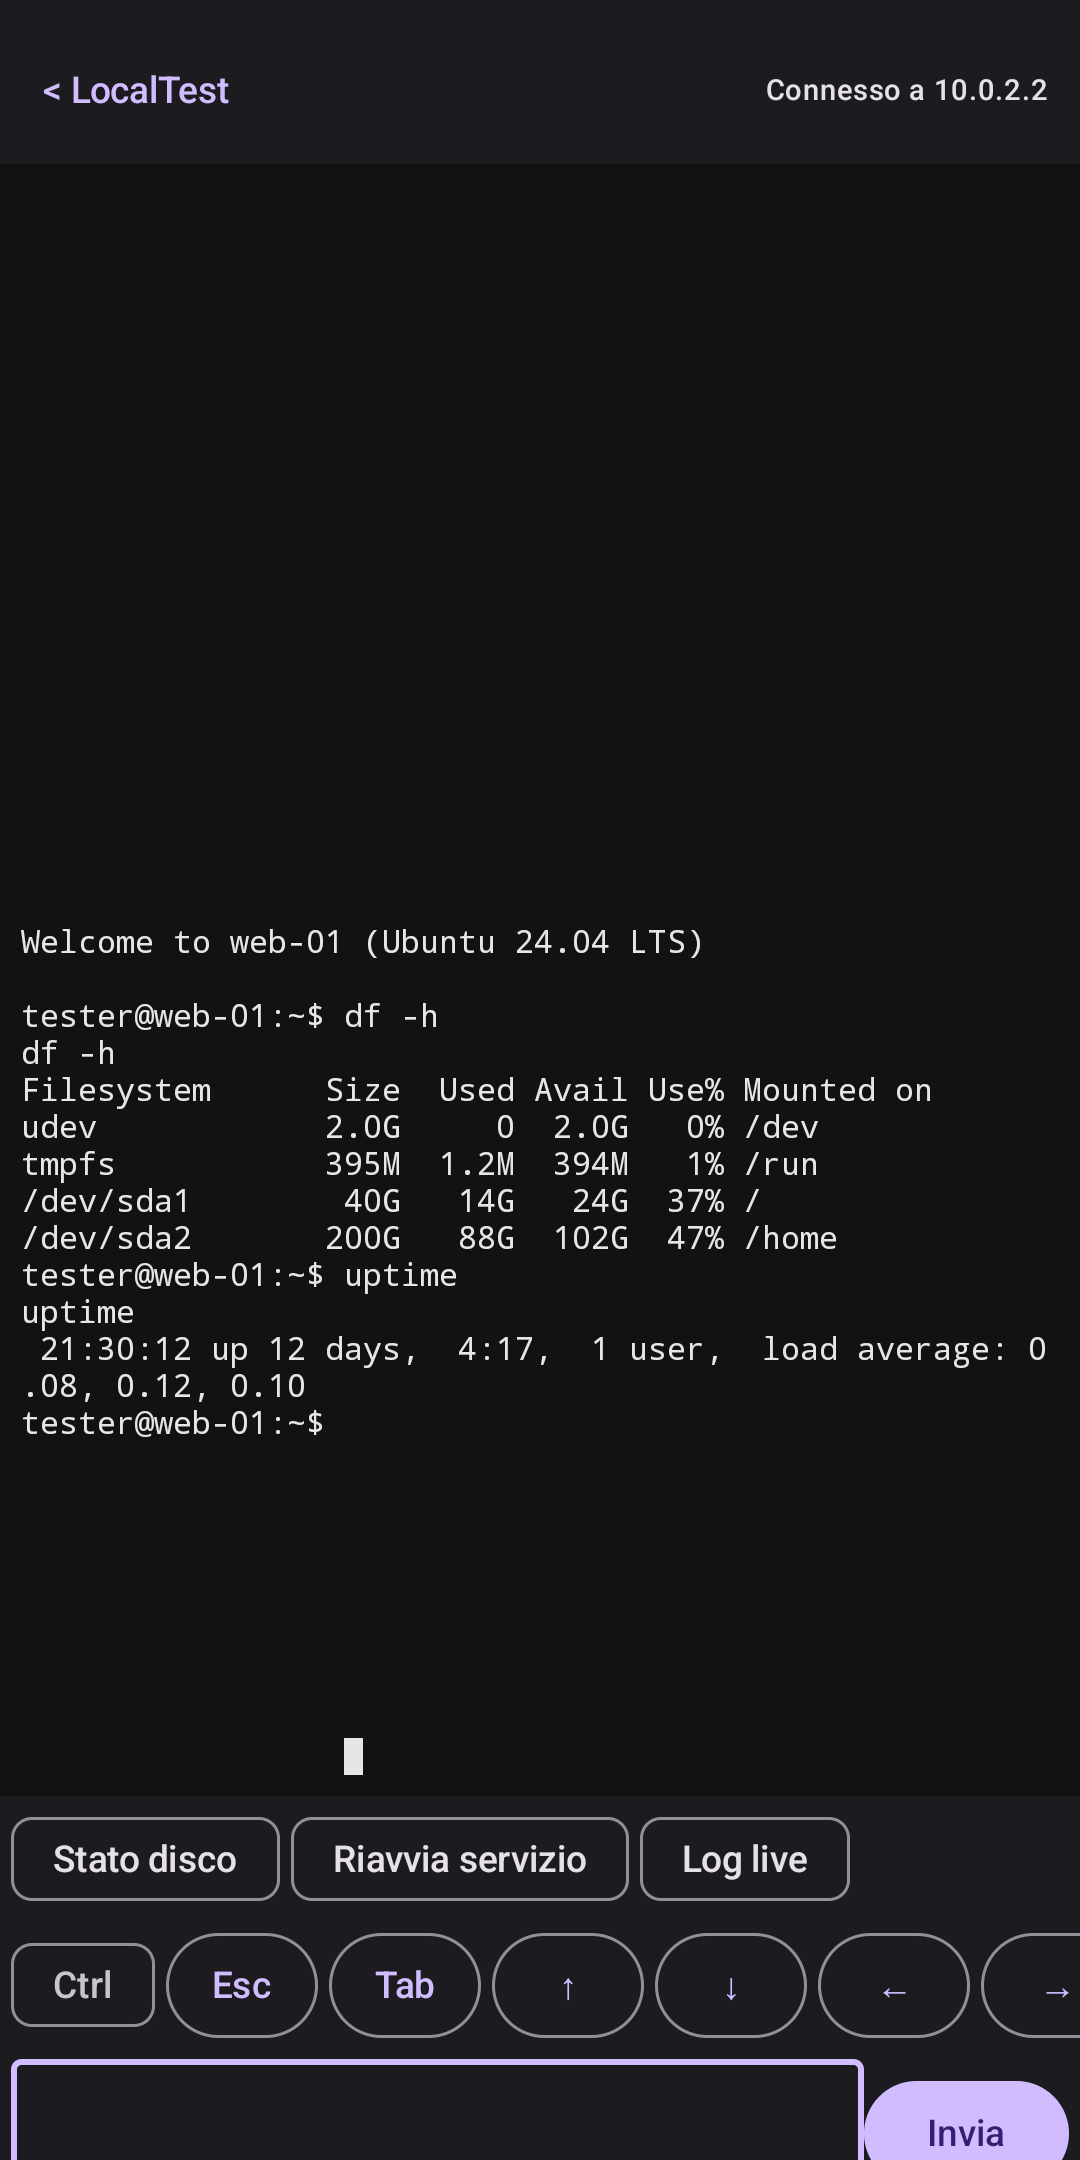
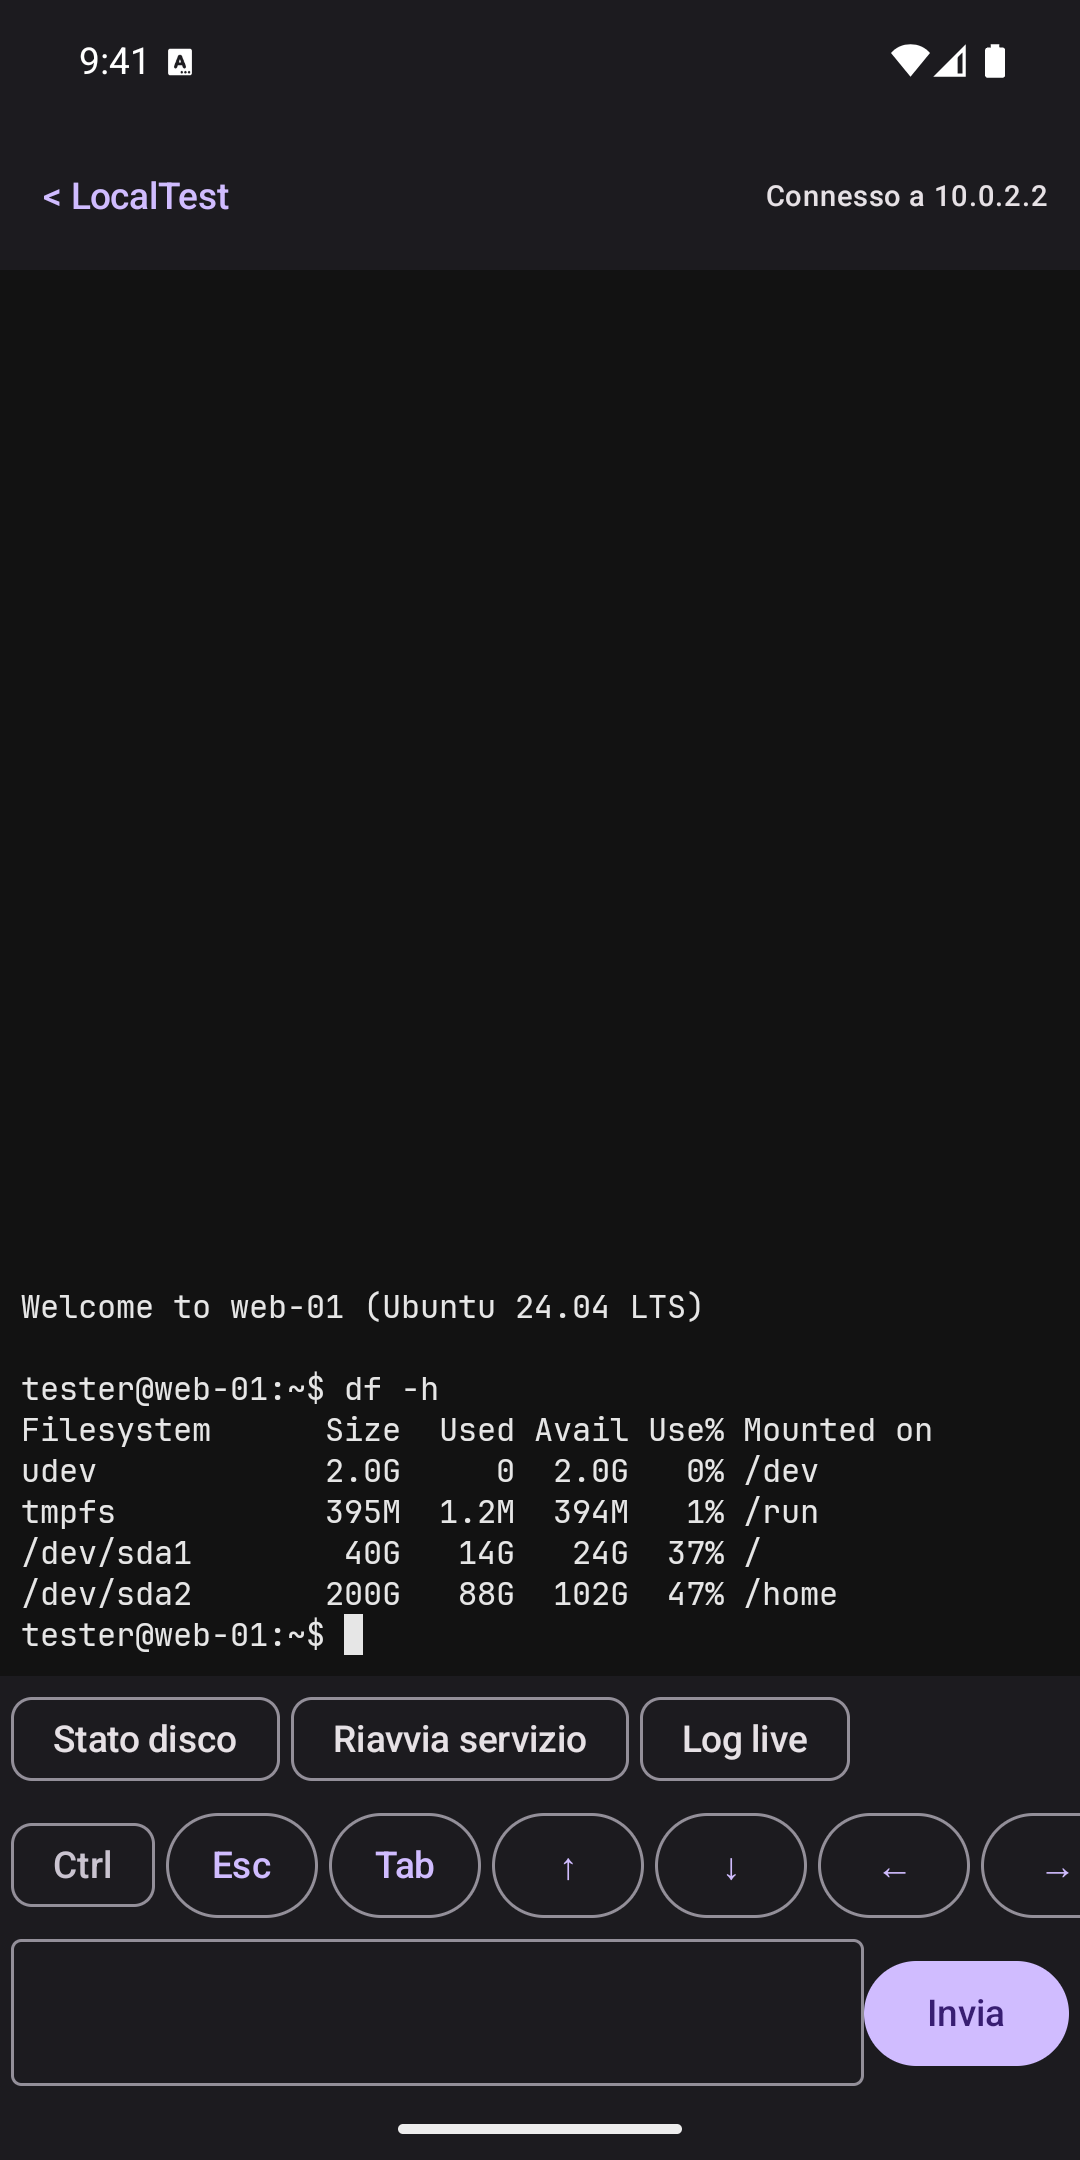
Fix crash regex variabili snippet e aggiorna screenshot
La regex {{var}} non escapava la graffa di chiusura, che il runtime Android rifiuta con PatternSyntaxException. Rifatti gli screenshot 03, 05 e 06 con dati fittizi.

diff --git a/app/src/main/java/com/example/sshsnippets/Models.kt b/app/src/main/java/com/example/sshsnippets/Models.kt
@@ -22,7 +22,8 @@ data class Snippet(
     val command: String,
     val sendEnter: Boolean = true,
 ) {
-    private val varRegex get() = Regex("\\{\\{\\s*(\\w+)\\s*}}")
+    // Le graffe di chiusura vanno escapate: il runtime Android le rifiuta altrimenti.
+    private val varRegex get() = Regex("\\{\\{\\s*(\\w+)\\s*\\}\\}")
 
     fun variables(): List<String> =
         varRegex.findAll(command).map { it.groupValues[1] }.distinct().toList()

diff --git a/docs/play-store.md b/docs/play-store.md
@@ -88,7 +88,7 @@ File in [docs/store/](./store/):
 - [feature-graphic-1024x500.png](./store/feature-graphic-1024x500.png): grafica in evidenza, 1024 x 500.
 - [screenshots/](./store/screenshots/): screenshot telefono 1080 x 2160 (rapporto 2:1, il massimo accettato da Play). Ordine consigliato: host (`01`), snippet (`02`), terminale (`03`), SFTP (`04`), impostazioni (`05`), terminale con comandi (`06`), nuovo host (`07`), verifica chiave host (`08`), SFTP con file (`09`).
 
-Le schermate sono state prese dall'emulatore Pixel 7 (Android 16) con un server di prova. Gli screenshot `06`–`08` mostrano il terminale, il form di un nuovo host e la verifica della chiave host. Prima di pubblicare, sostituiscile con screenshot con dati fittizi ma realistici, senza hostname o IP reali.
+Le schermate sono state prese dall'emulatore Pixel 7 (Android 16) con un server di prova, alla risoluzione 1080 x 2160. Gli screenshot `03`, `05` e `06` sono stati rifatti con dati fittizi (host `web-01`, Ubuntu 24.04, font JetBrains Mono, tema Scuro). Gli screenshot `07` e `08` mostrano ancora il server di prova (`LocalTest`, `10.0.2.2`): prima di pubblicare, sostituiscili con screenshot con dati fittizi ma realistici, senza hostname o IP reali.
 
 Icona launcher: adaptive icon in `app/src/main/res/mipmap-anydpi-v26/`, con prompt `>_` su sfondo `#1C1B1F`.
 
